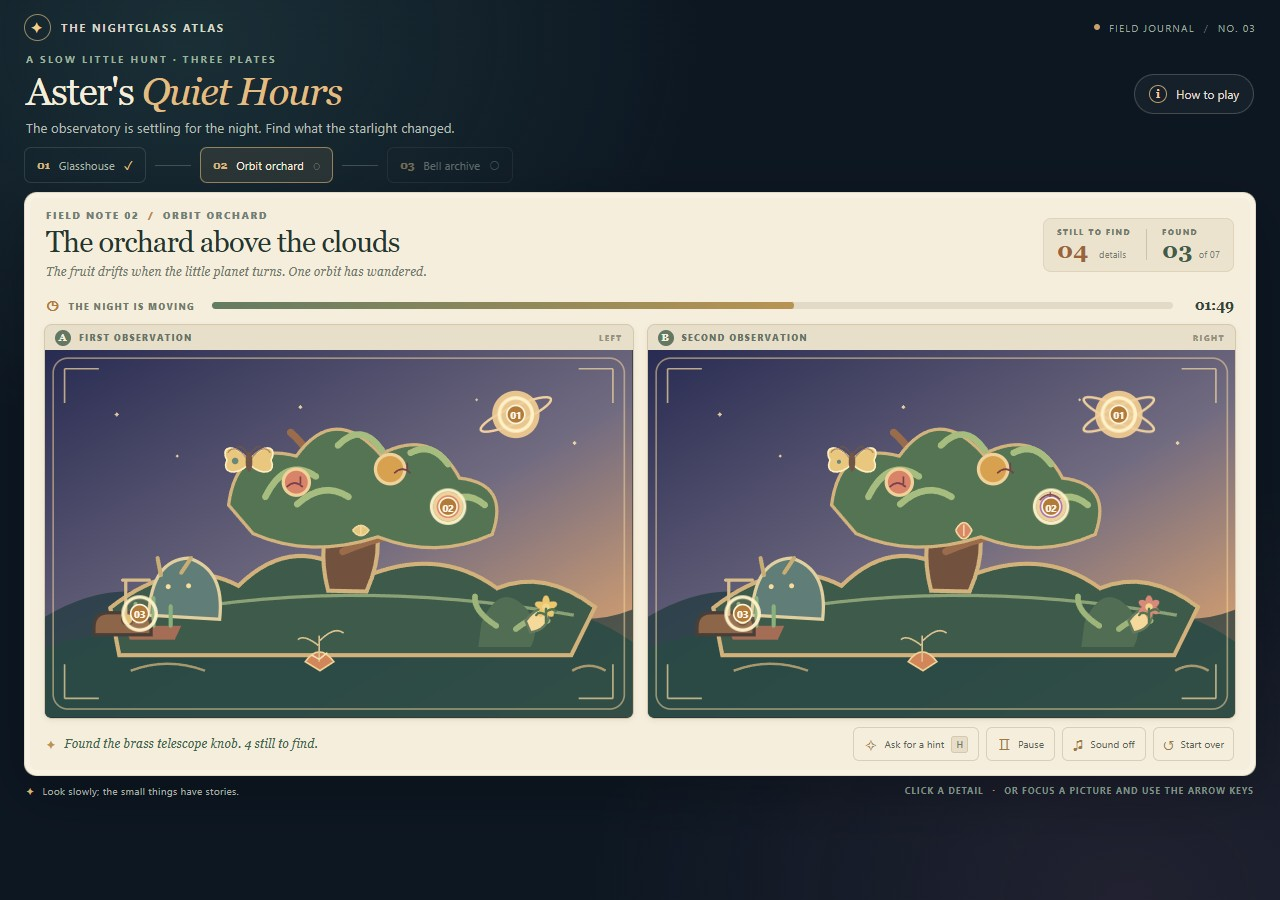
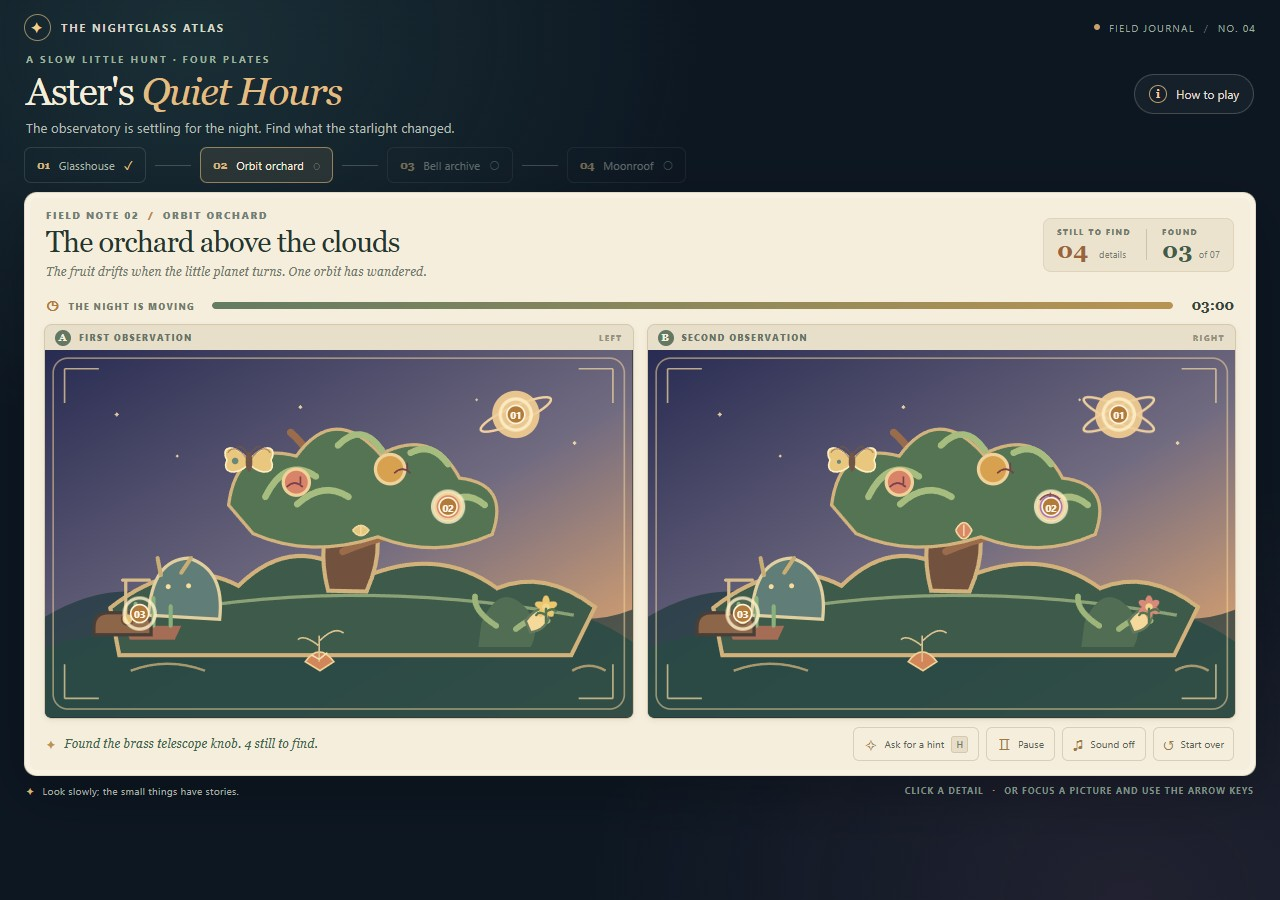
Add the moonroof field note

diff --git a/game/src/scene-art.js b/game/src/scene-art.js
@@ -149,9 +149,56 @@ function drawArchive(alternate, prefix) {
   `;
 }
 
+function drawMoonroof(alternate, prefix) {
+  return `
+    ${skyAndFrame(prefix, ['#1c2944', '#606782', '#c58067'])}
+    ${star(83,93,3)}${star(144,131,2)}${star(225,75,2.5)}${star(321,112,1.8,.75)}${star(442,72,2)}${star(657,129,2.5,.72)}${star(529,144,2,.7)}
+    <path d="M0 282Q95 245 185 277T365 269T545 271T720 254V450H0Z" fill="#394753" opacity=".77"/>
+    <path d="M0 325h720v125H0Z" fill="#34404a"/>
+    <path d="M32 324h656M49 354h622M68 384h584" stroke="#b99669" stroke-width="3" opacity=".64"/>
+    <path d="M87 324v-27h28v27m27 0v-44h40v44m397 0v-31h35v31m26 0v-51h45v51" fill="#526272" stroke="#c1a779" stroke-width="3"/>
+    <circle cx="574" cy="88" r="29" fill="#f2d79a" opacity=".94"/>
+    <path d="M559 81q13-12 28 0m-26 12q11-8 23 0" fill="none" stroke="#c28d5f" stroke-width="2" opacity=".72"/>
+    ${alternate ? '<ellipse cx="574" cy="88" rx="44" ry="10" fill="none" stroke="#f3d89f" stroke-width="3" transform="rotate(-24 574 88)"/>' : ''}
+    <path d="M104 337V235Q104 150 200 150H520Q616 150 616 235V337" fill="#425969" stroke="#d4b77d" stroke-width="8"/>
+    <path d="M128 333V239Q128 174 204 174H516Q592 174 592 239V333" fill="#304656" stroke="#a98e65" stroke-width="4"/>
+    <path d="M150 323V244Q150 191 211 191H509Q570 191 570 244V323" fill="#526777" stroke="#d2b67f" stroke-width="3"/>
+    <path d="M192 323V248Q192 217 230 217H490Q528 217 528 248V323" fill="#334c5b" stroke="#b69b6d" stroke-width="3"/>
+    <path d="M211 322v-45m298 45v-45M131 322h461" stroke="#d7bd87" stroke-width="4"/>
+    <path d="M345 322V222M357 322V222M369 322V222" stroke="#9d8968" stroke-width="2" opacity=".8"/>
+    <path d="M70 338h580" stroke="#ead29b" stroke-width="5"/>
+    <path d="M92 339v36m74-36v36m390-36v36m74-36v36" stroke="#c6a879" stroke-width="4"/>
+    <circle cx="351" cy="201" r="39" fill="#30414b" stroke="#e0c38c" stroke-width="5"/>
+    <ellipse cx="351" cy="201" rx="49" ry="17" fill="none" stroke="#c4a66e" stroke-width="3" transform="rotate(-29 351 201)"/>
+    <ellipse cx="351" cy="201" rx="49" ry="17" fill="none" stroke="#c4a66e" stroke-width="3" transform="rotate(29 351 201)"/>
+    <circle cx="351" cy="201" r="22" fill="#647b7c" stroke="#e4cd97" stroke-width="3"/>
+    <path d="M351 201L${alternate ? '373 184' : '351 174'}M351 201L${alternate ? '329 220' : '351 229'}" stroke="#f5d996" stroke-width="4" stroke-linecap="round"/>
+    <circle cx="351" cy="201" r="5" fill="#eac275"/>
+    <path d="M122 300 201 238" stroke="#ba8c58" stroke-width="16" stroke-linecap="round"/>
+    <path d="M122 300 201 238" stroke="#e1c38a" stroke-width="5" stroke-linecap="round"/>
+    <circle cx="179" cy="252" r="12" fill="${alternate ? '#f2d896' : '#91afb0'}" stroke="#f1d89e" stroke-width="4"/>
+    <circle cx="179" cy="252" r="4" fill="#fff0c2" opacity=".85"/>
+    <path d="M119 301h92m-75 0 14 33m54-96 28-25" stroke="#c6aa77" stroke-width="5" stroke-linecap="round"/>
+    <path d="M589 224V171" stroke="#d5bc89" stroke-width="4"/>
+    <path d="M590 175l${alternate ? '28 5-24 19-4-24Z' : '27-4-14 19-13-15Z'}" fill="${alternate ? '#d78c70' : '#e5ca91'}" stroke="#f2dca9" stroke-width="2"/>
+    <circle cx="589" cy="170" r="7" fill="#d8b679" stroke="#f2dca9" stroke-width="2"/>
+    <path d="M452 336q0-38 40-40 37 4 42 40Z" fill="#9c795d" stroke="#e2c58a" stroke-width="4"/>
+    <path d="M466 308l9-14 12 12 10-13 12 14" fill="#9c795d" stroke="#e2c58a" stroke-width="4" stroke-linejoin="round"/>
+    <circle cx="476" cy="315" r="3" fill="#f6dfaa"/><circle cx="499" cy="315" r="3" fill="#f6dfaa"/>
+    <path d="M${alternate ? '531 323q28-30 4-39-17-5-20 12' : '531 323q19 17 28-1 6-13-5-20'}" fill="none" stroke="#d8b77a" stroke-width="5" stroke-linecap="round"/>
+    <path d="M567 338v-25q0-17 23-17t23 17v25Z" fill="#82654f" stroke="#d6bc84" stroke-width="4"/>
+    <path d="M592 301q-12-13 0-25 12 12 0 25Z" fill="${alternate ? '#f4d98f' : '#e7aa60'}" stroke="#ffe8b2" stroke-width="2"/>
+    <path d="M575 338h31" stroke="#e4cb96" stroke-width="4"/>
+    ${moth(267,164,alternate)}
+    <path d="M240 344q26-23 52 0h-52Zm182 0q17-15 34 0h-34Z" fill="#607257" stroke="#ddc68e" stroke-width="3"/>
+    <path d="M253 343v-17m14 17v-24m15 24v-13m148 13v-19m15 19v-15" stroke="#a1b27b" stroke-width="3" stroke-linecap="round"/>
+    <path d="M42 410q95-19 190 0t190 0 190 0 84 0" fill="none" stroke="#cfb47d" stroke-width="2" opacity=".55"/>
+  `;
+}
+
 export function renderArtwork(plate, alternate = false, side = 'left') {
   const prefix = `${plate.id}-${side}`;
-  const renderers = { glasshouse: drawGlasshouse, orchard: drawOrchard, archive: drawArchive };
+  const renderers = { glasshouse: drawGlasshouse, orchard: drawOrchard, archive: drawArchive, moonroof: drawMoonroof };
   return renderers[plate.id](alternate, prefix);
 }
 

diff --git a/game/index.html b/game/index.html
@@ -4,7 +4,7 @@
     <meta charset="utf-8">
     <meta name="viewport" content="width=device-width, initial-scale=1">
     <meta name="theme-color" content="#101b27">
-    <meta name="description" content="A hand-painted spot-the-difference hunt through three quiet corners of the Nightglass Conservatory.">
+    <meta name="description" content="An original illustrated spot-the-difference hunt through four quiet corners of the Nightglass Conservatory.">
     <title>Aster's Quiet Hours — The Nightglass Atlas</title>
     <link rel="icon" href="data:,">
     <link rel="stylesheet" href="/styles/game.css">
@@ -16,12 +16,12 @@
           <span class="brand-seal" aria-hidden="true">✦</span>
           <span>THE NIGHTGLASS ATLAS</span>
         </a>
-        <div class="edition"><span class="edition-dot" aria-hidden="true"></span> FIELD JOURNAL <span class="edition-divider">/</span> NO. 03</div>
+        <div class="edition"><span class="edition-dot" aria-hidden="true"></span> FIELD JOURNAL <span class="edition-divider">/</span> NO. 04</div>
       </header>
 
       <section class="intro" aria-labelledby="game-title">
         <div>
-          <p class="eyebrow">A SLOW LITTLE HUNT <span aria-hidden="true">·</span> THREE PLATES</p>
+          <p class="eyebrow">A SLOW LITTLE HUNT <span aria-hidden="true">·</span> FOUR PLATES</p>
           <h1 id="game-title">Aster's <em>Quiet Hours</em></h1>
           <p class="intro-copy">The observatory is settling for the night. Find what the starlight changed.</p>
         </div>
@@ -42,6 +42,10 @@
         <span class="chapter-thread" aria-hidden="true"></span>
         <button class="chapter-button" type="button" data-chapter="2">
           <span class="chapter-index">03</span><span class="chapter-name">Bell archive</span><span class="chapter-mark" aria-hidden="true">○</span>
+        </button>
+        <span class="chapter-thread" aria-hidden="true"></span>
+        <button class="chapter-button" type="button" data-chapter="3">
+          <span class="chapter-index">04</span><span class="chapter-name">Moonroof</span><span class="chapter-mark" aria-hidden="true">○</span>
         </button>
       </nav>
 
@@ -122,7 +126,7 @@
     <dialog class="journal-dialog finish-dialog" id="finishDialog" aria-labelledby="finishTitle">
       <p class="eyebrow">THE ATLAS IS COMPLETE</p>
       <h2 id="finishTitle">A quiet night, well observed.</h2>
-      <p id="finishSummary">You found every little change across the three plates.</p>
+      <p id="finishSummary">You found every little change across the four plates.</p>
       <div class="finish-score"><span>FIELD NOTES COMPLETE</span><strong id="finalScore">0000</strong></div>
       <form method="dialog"><button class="dialog-done" id="playAgainButton">Read the atlas again</button></form>
     </dialog>

diff --git a/game/src/main.js b/game/src/main.js
@@ -141,7 +141,8 @@ function finishPlate() {
   transitionTimeout = window.setTimeout(() => {
     if (state.chapter === PLATES.length - 1) {
       state.phase = 'finished';
-      byId('finishSummary').textContent = `Three plates, twenty-one details, ${state.allMisses} quiet ${state.allMisses === 1 ? 'misstep' : 'missteps'}.`;
+      const detailCount = PLATES.reduce((total, plate) => total + plate.differences.length, 0);
+      byId('finishSummary').textContent = `${PLATES.length} plates, ${detailCount} details, ${state.allMisses} quiet ${state.allMisses === 1 ? 'misstep' : 'missteps'}.`;
       byId('finalScore').textContent = String(totalScore(state)).padStart(4, '0');
       updateDisplay();
       byId('finishDialog').showModal();
@@ -202,8 +203,8 @@ function resetCurrentPlate() {
   window.clearTimeout(transitionTimeout);
   if (byId('finishDialog').open) byId('finishDialog').close();
   if (state.phase === 'finished') {
-    state.completed = [false, false, false];
-    state.scores = [0, 0, 0];
+    state.completed = Array(PLATES.length).fill(false);
+    state.scores = Array(PLATES.length).fill(0);
     selectPlate(state, 0);
   } else {
     selectPlate(state, state.chapter);

diff --git a/game/src/scene-data.js b/game/src/scene-data.js
@@ -47,6 +47,22 @@ export const PLATES = [
       { x: 431, y: 368, radius: 24, name: 'the bookmark ribbon' },
     ],
   },
+  {
+    id: 'moonroof',
+    name: 'The observatory roof before dawn',
+    shortName: 'Moonroof',
+    kicker: 'MOONLIT ROOF',
+    story: 'The brass dome is turning. One small piece of the sky has wandered.',
+    differences: [
+      { x: 574, y: 88, radius: 25, name: 'the moon’s silver orbit' },
+      { x: 351, y: 201, radius: 24, name: 'the astrolabe’s star needle' },
+      { x: 179, y: 252, radius: 24, name: 'the telescope lens' },
+      { x: 593, y: 174, radius: 24, name: 'the weather vane’s pennant' },
+      { x: 543, y: 305, radius: 24, name: 'the cat’s curled tail' },
+      { x: 592, y: 288, radius: 24, name: 'the rooftop lantern flame' },
+      { x: 267, y: 164, radius: 24, name: 'a silver spot on the moth’s wing' },
+    ],
+  },
 ];
 
 export const SECONDS_PER_PLATE = 180;

diff --git a/main.ts b/main.ts
@@ -19,7 +19,7 @@ import { buildDossier } from './vendor/makefun-game.ts';
 
 const here = fileURLToPath(new URL('.', import.meta.url));
 const out = process.env.MAKEFUN_OUTPUT_DIR ?? '/output';
-const gameplayProof = ['01-glasshouse.jpg', '02-orbit-orchard.jpg', '03-bell-archive.jpg'];
+const gameplayProof = ['01-glasshouse.jpg', '02-orbit-orchard.jpg', '03-bell-archive.jpg', '04-moonroof.jpg'];
 for (const filename of gameplayProof) {
   if (!existsSync(join(here, 'screenshots', filename))) {
     throw new Error(`Missing required gameplay screenshot: ${filename}`);

diff --git a/game/src/game-state.js b/game/src/game-state.js
@@ -4,8 +4,8 @@ export function createGameState() {
   return {
     chapter: 0,
     found: new Set(),
-    completed: [false, false, false],
-    scores: [0, 0, 0],
+    completed: Array(PLATES.length).fill(false),
+    scores: Array(PLATES.length).fill(0),
     timeLeft: SECONDS_PER_PLATE,
     misses: 0,
     allMisses: 0,

diff --git a/README.md b/README.md
@@ -4,7 +4,7 @@
 [![rank](https://make.fun/badge/best-spot-the-difference-game-20261121-0451/gishou0930/nightglass-atlas-difference/rank.svg)](https://make.fun/bounty/best-spot-the-difference-game-20261121-0451/leaderboard?utm_source=github&utm_medium=readme&utm_campaign=best-spot-the-difference-game-20261121-0451)
 [![reward](https://make.fun/badge/best-spot-the-difference-game-20261121-0451/gishou0930/nightglass-atlas-difference/reward.svg)](https://make.fun/bounty/best-spot-the-difference-game-20261121-0451?utm_source=github&utm_medium=readme&utm_campaign=best-spot-the-difference-game-20261121-0451)
 
-An original hand-illustrated spot-the-difference game across three quiet corners of a moonlit observatory.
+An original illustrated spot-the-difference game across four quiet corners of a moonlit observatory, with 28 fair differences to find.
 
 ## Run it
 
